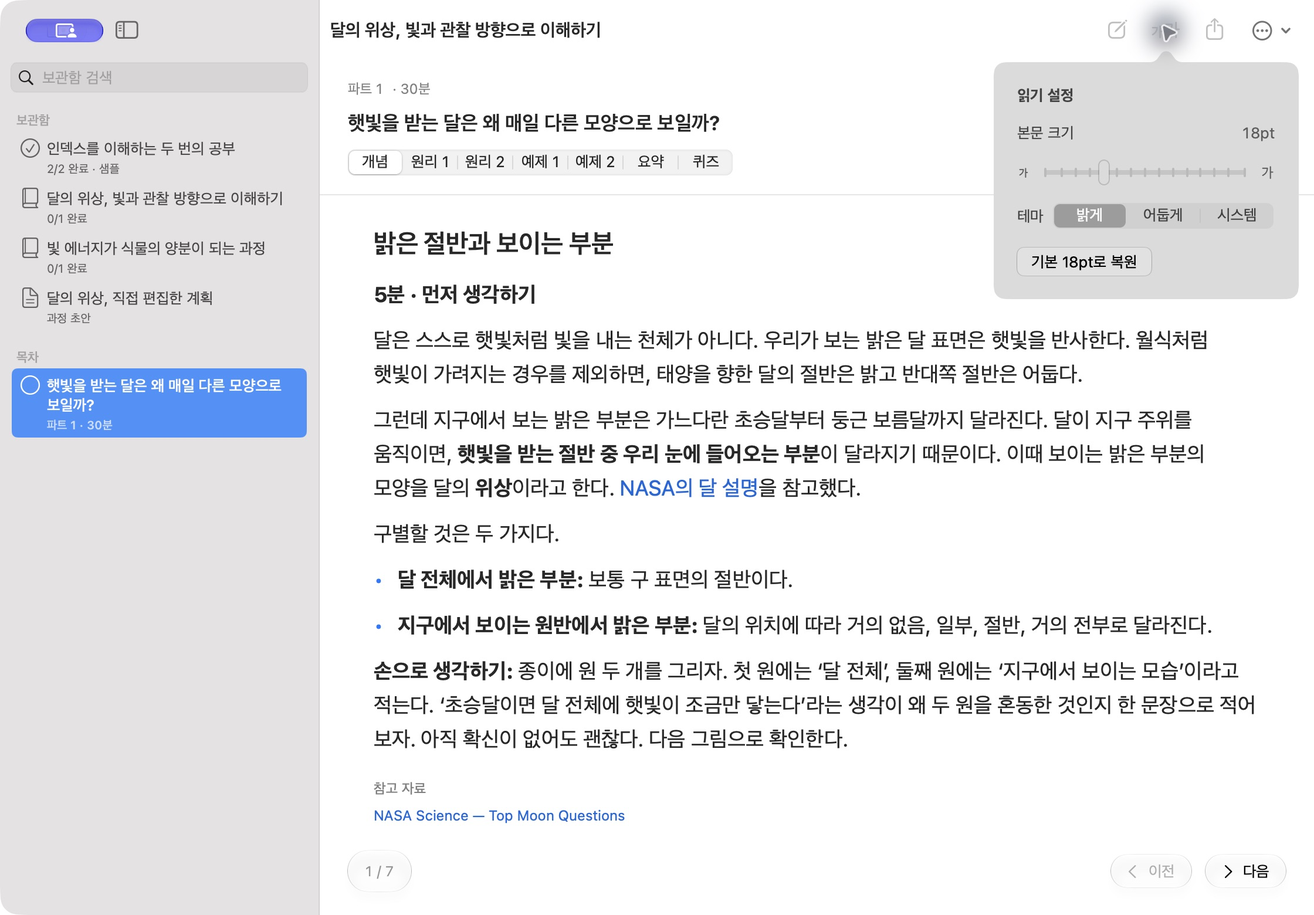
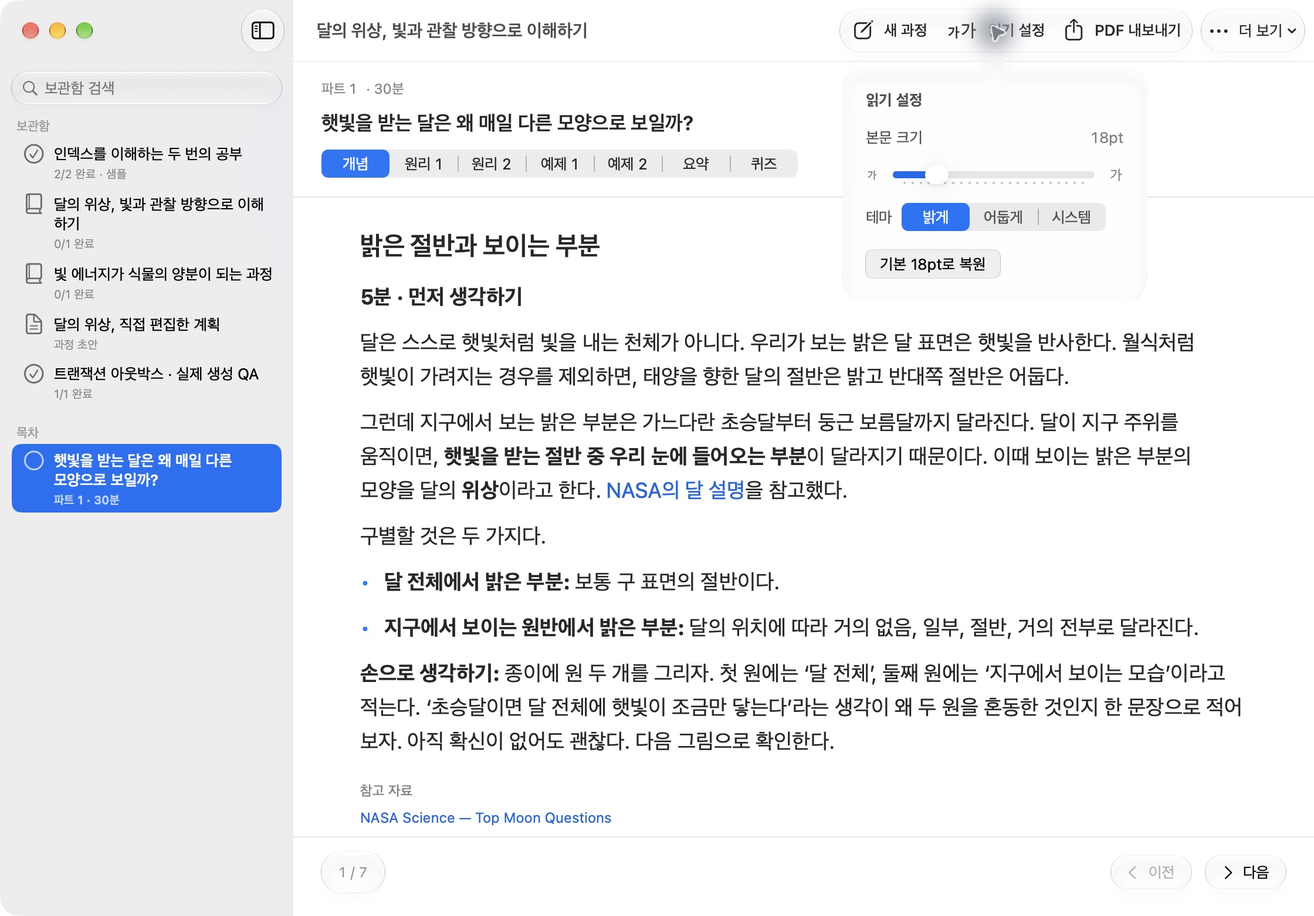
docs: 실제 생성 QA와 최신 네이티브 화면 갱신
선택한 Pages 방식의 메뉴와 최신 SDK 링크 원인·검증을 설계에 기록한다. 실제 아웃박스 계획·교재 생성, 퀴즈·메모·스크롤 재개·그림 복구와 10페이지 PDF 검토를 구분해 남긴다. 생성 도식의 배치 설명을 검토 후 수정한 사본임을 명시하고 원본 그대로의 결과로 주장하지 않는다.

38개 자동 테스트, 스크롤 저장 횟수 검사, 실제 Release 화면과 검증하지 않은 프레임 성능·OS 범위를 기록한다. README의 모든 화면을 최신 SDK 실행 캡처로 갱신한다.

diff --git a/docs/qa.md b/docs/qa.md
@@ -7,7 +7,7 @@
 | 항목 | 확인한 값 |
 |---|---|
 | OS / CPU | macOS 27.0.1 (26A434), Apple Silicon arm64 |
-| 도구 | Command Line Tools, Swift 6.4 |
+| 도구 | Command Line Tools, Swift 6.4, 최종 링크 SDK 27.0 |
 | 배포 최소 타깃 | macOS 14 |
 | 인증 / CLI | 기존 ChatGPT 구독 로그인, Codex CLI 0.160.1 |
 | 앱 | Release, 0.1.0, ad-hoc 서명 |
@@ -17,14 +17,14 @@
 
 ## 자동 검증
 
-실제 새 저장소에서 `swift run RunTests`를 실행해 **4개 suite, 37개 테스트가 모두 통과**했다. 앱 Release 빌드도 성공했다. CLT가 존재하지 않는 Developer 프레임워크 검색 경로에 대해 출력한 링크 경고는 빌드·실행을 막지 않았다.
+최종 변경 후 `swift run RunTests`를 실행해 **4개 suite, 38개 테스트가 모두 통과**했다. 앱 Release 빌드도 성공했다. CLT가 존재하지 않는 Developer 프레임워크 검색 경로에 대해 출력한 링크 경고는 빌드·실행을 막지 않았다. 아래 초기 검증과 첫 디자인 개선의37개·28pt 기록은 당시 버전의 결과이며, 최신 변경은 별도 절에 기록한다.
 
 | 범위 | 테스트 수 | 주요 검증 |
 |---|---:|---|
 | ModelTests | 18 | 버전 1 JSON, 30~45분 계획·연속 파트, 필수 내용·시각자료·출처, 중복/미참조 ID, 언어 학습 대상 문장, ASCII 제한, 순서와 무관한 명시적 완료, Markdown 코드·표·단계 |
 | RepositoryTests | 5 | 메모·정답 공개·진도 재개, 손상/미지원 버전 보존, 경로 탈출·심볼릭 링크·과도한 파일 크기 거부 |
 | ProcessTests | 9 | API 키 제거, 이벤트/종료 코드, 실패 이벤트, 큰 stdin, 조기 stdin 종료, 시간 제한·취소·앱 종료 시 자식 그룹 종료, 실행 경로 오류 |
-| RenderingTests | 5 | SVG 실행/외부 참조 차단, 저장 ASCII 대체와 AI 미호출, 후보 전체 실패, 한글 PDF·정답 페이지 분리, PDF 실패 시 이전 파일 보존 |
+| RenderingTests | 6 | SVG 실행/외부 참조 차단, 로컬 sequence symbol 허용과 중첩 실행 차단, 저장 ASCII 대체와 AI 미호출, 후보 전체 실패, 한글 PDF·정답 페이지 분리, PDF 실패 시 이전 파일 보존 |
 
 프로세스 종료 테스트는 실제 로컬 fixture 자식 프로세스를 사용한다. 원격 AI 응답을 흉내 내는 fixture를 실제 서비스 성공으로 간주하지 않았다.
 
@@ -92,16 +92,48 @@
 
 이 개선에서도37개 자동 테스트가 모두 통과했고 최종 Release 빌드가 성공했다. macOS 14~25의 fallback은 availability 분기와 최소 타깃 빌드로 확인했으며 해당 OS 실기기 실행은 수행하지 않았다. 현재 Apple 문서와 코드의 대응은 [디자인 기준](design.md)에 기록했다.
 
+## 최신 디자인·실제 생성·스크롤 검증
+
+2026-10-08. 별도 QA 보관함에서 최신 Release 앱을 실행했다. 사용자가 추가한 원래 과정과 저장 폴더는 덮어쓰지 않았다. 최신 변경 후 38개 테스트가 4개 suite에서 통과했고 Release 앱을 다시 패키징했다.
+
+| 영역 | 실제 확인과 결과 |
+|---|---|
+| SDK와 Liquid Glass | 이전 앱의 `LC_BUILD_VERSION`은 SDK 14.0이었다. 실제 SDK 링크 후 minOS 14.0 / SDK 27.0을 확인했다. 기본 사이드바 버튼·검색창·이름 있는 그룹 툴바가 새 디자인으로 표시된다. 툴바 배경 숨김 우회 없이 세로 경계가 이어진다. |
+| 명령과 일관성 | Pages 방식으로 새 과정·읽기 설정·PDF 내보내기·더 보기 이름 표시. File의 새 과정·가져오기, View의 읽기 설정·크기, 학습의 재생성·그림 재시도 확인. 밝은/어두운 화면, popover, grouped 설정·계획 Form, 퀴즈, 새 과정·완료 sheet를 대조했다. |
+| 실제 새 생성 | 앱의 새 과정에서 아웃박스 패턴 입력 → 실제 계획 생성 → 제목 수정·저장 → 시작 → 실제 1파트 35분 교재 생성. 개념·원리 2개·예제 2개·요약·퀴즈 표시. 새 작업 폴더는 계획·교재의 2개이며 그림 준비·PDF에는 추가 AI 호출이 없다. |
+| 시퀀스 그림 | 실제 v2 Mermaid가 안전한 SVG symbol 요소 때문에 대체 ASCII로 표시되던 원인을 수정했다. 재시도 후 v1/v2 모두 PNG, 대체 사유 없음. 중첩 script·외부 use·이벤트 속성은 계속 차단하는 회귀 검증을 추가했다. |
+| 코드·표·ASCII | 실제 생성 의사코드의 들여쓰기·줄과 비교 표의 열·셀 줄바꿈 확인. 861pt 창·36pt 본문에서 실제 생성 ASCII 대체 도식의 열 유지·가로 스크롤 확인. 하단 탐색은 별도 행이며 큰 글씨와 겹치지 않는다. |
+| 원본 확대 | 그림 크게 보기 → macOS 미리보기에 해당 QA 원본 PNG가 열림. 기본 이미지 앱의 확대/실제 크기 컨트롤에 접근 가능. |
+| 퀴즈·재개·완료 | 실제 퀴즈에 QA 답안 메모 입력·첫 정답 공개. 스크롤 직후 종료·재실행해 같은 내용·메모·공개 상태·스크롤 비율 약 0.23 복원. 현재 파트 완료 후 1/1 과정 완료, 복습 유지. 긴 심화 주제 설명의 여러 줄 표시 확인. |
+
+### 실제 생성 내용의 검토와 수정
+
+같은 DB 트랜잭션의 주문·이벤트 저장, 별도 릴레이 발행, 발행 후 기록 전 장애의 중복 가능성, 소비자 처리 기록과 업무 변경의 원자성을 [Microservices.io](https://microservices.io/patterns/data/transactional-outbox.html) 및 [AWS 공식 안내](https://docs.aws.amazon.com/prescriptive-guidance/latest/cloud-design-patterns/transactional-outbox.html)와 대조했다. 전체 사실 검증이나 35분 학습 시간 실험은 수행하지 않았다.
+
+실제 생성 v1은 서로 연결되지 않은 Mermaid 묶음이 위·아래로 배치됐는데 본문·캡션은 왼쪽·오른쪽으로 설명했다. 원본 생성 기록을 QA 폴더에 보존하고 QA 사본의 설명을 ‘DB 먼저’·‘브로커 먼저’라는 사례 이름으로 수정했다. 시각자료 사본에는 보이지 않는 Mermaid 배치 연결을 추가해 두 묶음을 나란히 렌더링했다. 이는 자동 생성 원본 그대로의 결과가 아닌 **생성 후 검토·수정한 QA 사본**이다. 앱 생성 지침도 사례 이름 참조와 큰 비교 그림 분할을 요청하도록 보강했다. 모든 새 모델 출력에서 항상 지켜진다는 검증은 하지 않았다.
+
+그림 복구 후 PDF 10페이지를 내보내 모두 검토했다. 내용 수정 후 최종 10페이지도 다시 확인했다. 그림·캡션·표·의사코드·한글·출처, 문제 8페이지와 정답 9페이지의 분리를 확인했다. 교재·생성 로그·메모는 Git에 넣지 않는다.
+
+### 스크롤 저장 검증
+
+실제 `StudyStore`를 사용하는 별도 검증 실행 파일에서 1000개 offset을 연속 입력했다. 이전 방식은 1000번 보관함을 발행·저장했고, 개선 방식은 입력 중 0번·350ms idle 이후 1번이었다. 과정·파트 이동, idle 저장, 즉시 flush, NaN/Inf 거부와 저장 파일을 검사했다. 실제 앱의 세 번 스크롤 제스처에서도 움직임 후 저장 3회를 확인했다. 종료 직전 위치 저장은 위 재개 검증으로 확인했다.
+
+이 결과는 이벤트마다 JSON 저장·전체 본문 재구성을 유발하는 경로를 줄였다는 증거다. FPS, 실제 트랙패드 장시간 연속 스크롤, 대규모 보관함의 프레임 성능을 측정한 것은 아니다.
+
 ## 스크린샷 출처
+
+현재 파일은 모두 SDK 27.0으로 링크한 Release 앱에서 다시 캡처했다. 창과 본문의 세로 경계, 이름 있는 툴바와 별도 하단 행이 실제 화면에 보인다.
 
 | 파일 | 실제 화면 |
 |---|---|
 | [lesson.png](assets/lesson.png) | 실제 달의 위상 교재, Release, 밝은 테마 18pt |
 | [plan.png](assets/plan.png) | 실제 달의 위상 계획의 QA 초안 사본을 앱에서 제목 편집 |
 | [diagram.png](assets/diagram.png) | 실제 달 교재의 SVG를 PNG로 표시, Release |
-| [quiz.png](assets/quiz.png) | 고정 인덱스 샘플, 메모·정답 공개 |
+| [quiz.png](assets/quiz.png) | 이번에 실제 생성한 아웃박스 교재, QA 메모·정답 공개 |
 | [options.png](assets/options.png) | 실제 달 교재의 네이티브 읽기 설정 popover,18pt 밝은 테마 |
 | [dark.png](assets/dark.png) | 실제 달의 위상 교재, 어두운 테마 21pt |
+| [compact.png](assets/compact.png) | 861pt 좁은 창, 이름 있는 시스템 툴바 |
+| [ascii-large.png](assets/ascii-large.png) | 실제 생성 대체 ASCII, 36pt 본문·861pt 창·가로 스크롤 |
 
 합성한 UI나 텍스트를 덧씌운 화면을 사용하지 않았다. 생성 교재·작업 로그·메모·인증 파일은 Git에 넣지 않으며 공개 스크린샷은 이 QA용 학습 주제와 샘플만 포함한다.
 
@@ -113,11 +145,12 @@ swift run PackageApp --release
 swift run StudyQA --data-dir ./work/local-qa --render-demo --stress-pdf --reopen
 ```
 
-다음 첫 명령만 실제 구독을 사용한다. 생성 후 두 번째 명령은 저장 자료만 읽는다.
+다음 첫 명령만 실제 구독을 사용한다. 생성 후 나머지 명령은 저장 자료만 읽는다.
 
 ```sh
 swift run StudyQA --data-dir ./work/live-qa --live --live-image
 swift run StudyQA --data-dir ./work/live-qa --reopen --export-saved
+swift run StudyQA --data-dir ./work/live-qa --verify-saved-visuals
 ```
 
 실제 모델 출력과 페이지 수는 새 실행마다 달라질 수 있다. 긴 시간 연속 사용·대규모 보관함·VoiceOver 전체 흐름·다른 macOS/Intel 하드웨어·CLI의 다른 버전은 검증하지 않았다. 기존 SQLite 보관함 전체 자동 이전은 구현 범위에 포함하지 않는다.

diff --git a/docs/design-review.md b/docs/design-review.md
@@ -1,0 +1,46 @@
+# 추가 SwiftUI 디자인 검토
+
+2026-10-08. 사용자가 제공한 자료를 읽고 현재 macOS 앱의 코드와 실제 실행 화면을 대조했다. Apple HIG와 제품의 읽기 요구를 우선하며, 제3자 스킬의 취향이나 iOS 규칙을 macOS 요구사항으로 간주하지 않는다.
+
+## 확인한 자료와 적용 범위
+
+- [SwiftUI Native Design 27](https://github.com/RichardZhengQuan/swiftui-native-design-skill/blob/3b44c1105b74cb391dcf196a0806e446b6bc2b87/.agents/skills/swiftui-native-design-27/SKILL.md): 네이티브 구조, 작업 흐름, 컴포넌트 선택, 실기기 검증 기준과 네 개 참조 문서를 읽었다. 현재 macOS 27 SDK 환경에 맞는 버전을 진단에 사용했다. 시스템 컴포넌트의 실제 동작과 확인 가능한 증거를 검수 기준으로 삼는다.
+- [SwiftUI Design Skill](https://github.com/Wholiver/swiftui-design-skill/blob/2c82638ebd3c801d9d2d12b5f2d6c20495939995/SKILL.md): 디자인 방향·계층·완성도·사용성·제품 맥락의 검토 틀과 anti-ai-slop/typography 참조를 읽었다. 반복 카드, 장식, 임의 여백을 줄이는 데 참고한다. 세리프 제목·따뜻한 브랜드색·44pt 터치 영역은 일괄 적용하지 않는다. 시스템 색·글꼴·macOS 컨트롤 크기와 사용자가 요청한 큰 본문을 유지한다.
+- [OpenClaw 네이티브 교체 제안](https://github.com/openclaw/openclaw/issues/99195): 커스텀 UI 층을 줄이는 사례로 참고했다. 이슈에 제안과 프로토타입 검증이 있다는 사실을 메인 코드 반영의 증거로 사용하지 않는다.
+- [한 화면부터 리디자인한 경험](https://www.reddit.com/r/ClaudeAI/comments/1mchugi/how_i_used_ai_to_completely_overhaul_my_apps_uiux/)과 [수치를 전달한 경험](https://www.reddit.com/r/ClaudeAI/comments/1ouc6bu/tip_for_ui_design_with_claude/): 구체적 기준과 실제 결과를 대조하는 작업 방식에 참고했다.
+- [awesome-ios-design-md](https://github.com/Meliwat/awesome-ios-design-md): 명세의 분류 방식은 참고하되 개별 모바일 앱의 브랜드와 레이아웃을 이 데스크톱 학습 도구에 복제하지 않는다.
+
+전역 스킬 설치나 Xcode 설정 변경은 하지 않았다. 자료는 설계 검토에 사용했으며 스킬 원문·UI kit 자산을 저장소에 복사하지 않았다.
+
+## 비교한 방향
+
+| 방향 | 이 앱에서의 의미 | 판단 |
+|---|---|---|
+| 네이티브 학습 도구 | 시스템 탐색·명령·입력, 큰 본문, 그림과 퀴즈 중심 | 기존 사용자 요청과 일치해 유지 |
+| 읽기에 집중한 문서 화면 | 목차를 숨기고 본문에 더 많은 공간 제공 | 기존 사이드바 숨김과 본문 폭 제한으로 지원 |
+| 학습 작업 공간 | 자료 옆 별도 메모·참고 inspector | 새로운 작업 흐름이므로 이번 개선에 추가하지 않음 |
+
+## 발견과 수정
+
+| 문제 | 코드의 원인 | 반영 |
+|---|---|---|
+| 충분한 글자 확대 | 기본 18pt, 상한 28pt | `ReaderTypography`로 기본·범위를 공유하고 상한 36pt로 확대. Apple HIG의 가능한 200% 확대 권고에 맞춤 |
+| 큰 글자와 하단 버튼 겹침 | ReaderView의 스크롤 위 footer overlay | footer를 viewport 아래 독립 행으로 이동. 실제 Glass 버튼 사용 유지 |
+| ASCII·코드 열 정렬 붕괴 | 일반 본문처럼 폭에 맞춰 자동 줄바꿈 | `MonospacedBlock`에서 원래 줄·공백 유지, 가로 스크롤 제공 |
+| 스크롤 중 반복 저장·레이아웃 | offset 이벤트마다 전체 library publish/save | 최신 위치를 메모리에 모으고 350ms idle 후 저장. 이동·비활성화·종료 때 즉시 반영 |
+| 최신·이전 디자인 혼합 | 실행 파일 링크 SDK가 14.0으로 기록됨 | 실제 SDK를 지정해 링크하고 검증. 기본 사이드바·검색·그룹 툴바에 새 디자인 적용. 툴바 배경 숨김 우회 제거 |
+| 심화 설명 잘림 | 시스템 버튼의 기본 한 줄 제한 | 명시적 여러 줄 표시·왼쪽 정렬 적용 |
+
+## 상단 명령 비교와 선택
+
+사용자는 **A · Pages처럼 기능 이름 표시**를 선택했다. [Pages의 툴바 사용자화](https://support.apple.com/guide/pages/customize-the-toolbar-tanafa2f718a/15.4/mac/1.0)는 아이콘·텍스트 표시를 지원한다. [Preview 안내](https://support.apple.com/en-nz/guide/preview/prvw11470/mac)의 읽기·크기 도구 중심 방식과 [Obsidian 명령 검색](https://help.obsidian.md/plugins/command-palette)의 키보드 검색 방식을 함께 비교했다. 현재 기능 수와 선택한 방향에 맞춰 자주 쓰는 명령 이름을 화면에 표시한다.
+
+`새 과정`, `읽기 설정`, `PDF 내보내기`를 기본 시스템 툴바에 배치하고 `더 보기`에는 가져오기·재생성·원본 그림 재시도를 둔다. [Apple Toolbars HIG](https://developer.apple.com/design/human-interface-guidelines/toolbars)에 따라 File·View·학습 메뉴도 제공한다. 861pt 창에서 명령 이름은 유지되고 긴 과정 제목만 시스템 방식으로 축약된다.
+
+SDK 수정 뒤 기본 시스템 컨트롤과 공통 `StudyActionStyle`을 기준으로 창·검색·툴바·내용 선택·설정·계획·새 과정·퀴즈·완료 화면을 검토했다. 내용 층에는 읽기용 시스템 배경을 유지하고 조작 층에 네이티브 Glass를 사용한다. 실행 증거는 QA 기록에 구분했다.
+
+## 화면별 검수 기준
+
+본문·그림·퀴즈를 읽고 현재 파트를 완료하는 것이 주 작업이다. 설정·PDF·재생성은 보조 명령이다. 각 화면에서 현재 선택과 다음 동작이 보이는지, 작은 창과 큰 글자에서 내용이 잘리거나 겹치지 않는지, 키보드·이름 있는 컨트롤로 같은 작업에 도달하는지 확인한다. 생성 중에는 활동과 취소, 실패 뒤에는 기존 자료와 재시도 경로가 남아야 한다.
+
+가독성은 본문·캡션·Glass 조작 영역을 각각 검토한다. 정렬은 창 경계·본문·표·도식·코드에서 확인한다. 생성 결과는 고정 샘플과 구분하고, 실제 교재와 그림에서 검사한다. 컴파일 성공이나 주관적 점수를 디자인 완료의 증거로 삼지 않는다. 실행 증거와 확인하지 않은 접근성·OS 조합은 [QA 기록](qa.md)에 남긴다.

diff --git a/README.md b/README.md
@@ -2,9 +2,9 @@
 
 궁금한 주제를 작은 학습 과정으로 만들고, 교재·그림·퀴즈를 읽으며 공부하는 **Swift 전용 macOS 네이티브 앱**입니다. 기존 [Study TUI](https://github.com/zzoe2346/study-tui)의 학습 흐름을 밝고 읽기 편한 데스크톱 화면으로 옮겼습니다.
 
-기본 본문 **18pt**, **14~28pt 크기 조절**, 밝은·어두운·시스템 테마를 제공합니다. 과학·역사·언어 등 직접 입력한 주제를 공부할 수 있습니다. 생성에는 기존 ChatGPT 구독으로 로그인한 Codex CLI를 사용합니다.
+기본 본문 **18pt**, **14~36pt 크기 조절**, 밝은·어두운·시스템 테마를 제공합니다. 과학·역사·언어 등 직접 입력한 주제를 공부할 수 있습니다. 생성에는 기존 ChatGPT 구독으로 로그인한 Codex CLI를 사용합니다.
 
-화면은 `NavigationSplitView`·네이티브 사이드바·툴바·Form·Picker·DisclosureGroup으로 구성했습니다. macOS 26 이상에서 페이지 이동과 주요 동작에 **실제 Liquid Glass API**를 사용하며, 이전 지원 OS에는 표준 버튼을 제공합니다. [Apple HIG 적용 기준](docs/design.md)을 문서로 남겼습니다.
+화면은 `NavigationSplitView`·네이티브 사이드바·툴바·Form·Picker·DisclosureGroup으로 구성했습니다. 최신 SDK로 링크해 시스템 탐색·검색·툴바 디자인을 사용하고, macOS 26 이상에서 페이지 이동과 주요 동작에 **실제 Liquid Glass API**를 적용합니다. 상단에는 **새 과정 · 읽기 설정 · PDF 내보내기 · 더 보기**의 이름을 함께 표시합니다. [Apple HIG 적용 기준](docs/design.md)을 문서로 남겼습니다.
 
 ![실제 앱의 교재 읽기 화면](docs/assets/lesson.png)
 
@@ -20,7 +20,7 @@
 
 ## 실제 실행 화면
 
-교재 읽기·어두운 테마·그림은 실제 Codex 구독으로 생성한 달의 위상 주제입니다. 과정 편집 화면은 그 실제 계획을 QA 보관함에 초안으로 복사하고 앱에서 제목을 수정했습니다. 퀴즈는 앱에 포함된 고정 인덱스 샘플입니다. 디자인 검증에는 저장된 교재를 사용해 추가 AI 호출을 하지 않았습니다. 합성한 UI 목업을 사용하지 않았습니다.
+교재 읽기·어두운 테마·그림은 실제 Codex 구독으로 생성한 달의 위상 주제입니다. 과정 편집 화면은 그 실제 계획을 QA 보관함에 초안으로 복사하고 앱에서 제목을 수정했습니다. 퀴즈는 이번에 앱에서 실제 생성한 트랜잭션 아웃박스 교재입니다. 계획·교재 생성에 두 번의 AI 작업을 사용했고 이후 그림 재시도·재개·PDF 검증은 AI 호출 없이 진행했습니다. 모든 캡처는 최신 SDK로 패키징한 실제 네이티브 앱 화면입니다.
 
 | 과정 초안 편집 | 퀴즈 메모와 선택 정답 공개 |
 |---|---|
@@ -43,7 +43,7 @@ swift run PackageApp --release
 open "dist/Study Swift.app"
 ```
 
-`PackageApp`은 실행 파일과 로컬 Mermaid·스키마 리소스를 포함하는 `.app`을 만들고 ad-hoc 서명합니다. Python, 별도 HTTP 서버, 외부 Swift 패키지가 필요하지 않습니다. 개발자 인증서 서명·공증·App Store 배포는 제공하지 않습니다.
+`PackageApp`은 실제 SDK 버전과 macOS 14 최소 버전을 구분해 링크하고 실행 파일의 SDK 기록을 검증합니다. 로컬 Mermaid·스키마 리소스를 포함하는 `.app`을 만들고 ad-hoc 서명합니다. Python, 별도 HTTP 서버, 외부 Swift 패키지가 필요하지 않습니다. 개발자 인증서 서명·공증·App Store 배포는 제공하지 않습니다.
 
 샘플을 전용 보관함에서 실행하려면 다음 명령을 사용합니다. 샘플 표시와 읽기는 AI를 호출하지 않습니다.
 
@@ -68,7 +68,7 @@ codex login status
 
 ## 그림, PDF, 가져오기
 
-Mermaid와 안전한 SVG는 앱 안의 로컬 WebKit에서 PNG로 렌더링합니다. 필요한 삽화는 Codex의 네이티브 이미지 기능으로 생성합니다. 원본을 사용할 수 없으면 교재에 미리 저장된 대체 후보를 순서대로 사용하고, 마지막 ASCII 도식을 표시합니다. 상단 `…` 메뉴에서 원본 그림을 다시 시도할 수 있습니다.
+Mermaid와 안전한 SVG는 앱 안의 로컬 WebKit에서 PNG로 렌더링합니다. 필요한 삽화는 Codex의 네이티브 이미지 기능으로 생성합니다. 원본을 사용할 수 없으면 교재에 미리 저장된 대체 후보를 순서대로 사용하고, 마지막 ASCII 도식을 표시합니다. **더 보기 → 원본 그림 재시도**에서 다시 준비할 수 있습니다. **그림 크게 보기**는 저장된 원본을 기본 이미지 앱에서 엽니다. ASCII와 코드의 줄·공백은 보존하며, 폭이 부족하면 가로로 스크롤합니다.
 
 PDF는 AppKit·CoreText·CoreGraphics로 생성합니다. 본문·예제·화면과 같은 선택 그림·퀴즈를 포함하고, **정답과 해설은 문제 이후의 새 페이지**에서 시작합니다.
 
@@ -101,6 +101,7 @@ swift run StudyQA --data-dir ./work/local-qa --render-demo --stress-pdf --reopen
 ```sh
 swift run StudyQA --data-dir ./work/live-qa --live --live-image
 swift run StudyQA --data-dir ./work/live-qa --reopen --export-saved
+swift run StudyQA --data-dir ./work/live-qa --verify-saved-visuals
 ```
 
 구조·진도·저장·CLI 종료/취소·시각자료 안전성·PDF를 검증합니다. 실제 호출, UI 조작, PDF 페이지 검토와 검증 한계는 [QA 기록](docs/qa.md)에 구분해서 기록했습니다. 생성 구조 검증은 교재의 모든 사실이나 실제 학습 시간을 보증하지 않습니다.
@@ -108,6 +109,7 @@ swift run StudyQA --data-dir ./work/live-qa --reopen --export-saved
 - [요구사항](docs/requirements.md)
 - [상세설계](docs/lld.md)
 - [macOS 디자인 기준](docs/design.md)
+- [추가 스킬·툴바 디자인 검토](docs/design-review.md)
 - [협업·Git 규칙](AGENTS.md)
 
 프로젝트 코드는 [MIT](LICENSE), 포함한 Mermaid 런타임은 [별도 MIT 고지](Sources/StudyCore/Resources/NOTICE.md)를 따릅니다.

diff --git a/docs/design.md b/docs/design.md
@@ -11,19 +11,25 @@
 - [Adopting Liquid Glass](https://developer.apple.com/documentation/technologyoverviews/adopting-liquid-glass), [Applying Liquid Glass to custom views](https://developer.apple.com/documentation/swiftui/applying-liquid-glass-to-custom-views): 표준 컨트롤과 실제 SwiftUI Glass API.
 - 사용자가 제공한 [macos-design-skill](https://github.com/ceorkm/macos-design-skill/blob/8f528a2364f996cd42f02a10b1b27198a74ca2a3/SKILL.md) 및 layout/visual/interaction 참조. 확인한 커밋은 `8f528a2364f996cd42f02a10b1b27198a74ca2a3`이다. 이 자료는 제3자 스킬이며 Apple 공식 문서가 아니다. 웹 구현 예시는 SwiftUI 컨트롤로 옮기고, 사용자의 18pt 가독성 요구를 우선했다.
 
+- [Accessibility](https://developer.apple.com/design/human-interface-guidelines/accessibility): 플랫폼별 컨트롤 크기, 의미적 색, 가능한 200% 글자 확대.
+- 추가 사용자 제공 스킬과 적용 범위·판단은 [추가 디자인 검토](design-review.md)에 기록했다.
+
 ## 화면에 적용한 결정
 
 | 영역 | 구현과 이유 |
 |---|---|
 | 탐색 | `NavigationSplitView` 두 열. `List(.sidebar)`에서 과정과 선택 과정의 목차를 탐색하며 시스템 선택·검색·숨김/표시를 사용한다. |
-| 툴바 | 새 과정, 읽기 설정, PDF, 추가 명령 메뉴. `Label`과 SF Symbols, 시스템 배치를 사용한다. 별도 툴바 배경을 숨겨 사이드바 경계가 창 상단부터 이어지게 한다. |
-| 읽기 | 기본 18pt, 14~28pt 조절. 시스템 색과 글꼴, 불투명 본문, 여백 포함 최대 820pt. 본문·그림·표에 Glass를 덮지 않는다. |
+| 툴바 | Pages 방식으로 `Label(.titleAndIcon)`의 새 과정·읽기 설정·PDF 내보내기·더 보기 이름을 표시한다. 기본 시스템 툴바가 Glass 그룹을 구성한다. SDK 수정 후 툴바 배경 숨김 우회 설정을 제거했고 사이드바 세로 경계를 실제 화면에서 확인했다. |
+| 읽기 | 기본 18pt, 14~36pt 조절. 시스템 색과 글꼴, 불투명 본문, 여백 포함 최대 820pt. 본문·그림·표에 Glass를 덮지 않는다. |
 | 내용 선택 | 표준 segmented `Picker`, 폭이 부족하면 `ViewThatFits`의 menu Picker. 같은 종류의 내용은 순서를 표시한다. |
-| 조작 층 | macOS 26 이상에서 하단 페이지 이동·완료에 `.glass` / `.glassProminent`, 페이지 위치에 `.glassEffect(.regular, in: .capsule)`. `GlassEffectContainer`로 묶으며 본문 마지막에 80pt를 확보한다. |
+| 조작 층 | macOS 26 이상에서 하단 페이지 이동·완료에 `.glass` / `.glassProminent`, 페이지 위치에 `.glassEffect(.regular, in: .capsule)`. `GlassEffectContainer`로 묶고 스크롤 viewport 아래 별도 조작 행에 배치해 본문을 가리지 않는다. |
 | 설정·편집 | 읽기 옵션 popover의 Slider/Picker, 과정 초안의 grouped Form/TextField/TextEditor/Stepper, 퀴즈의 TextEditor와 DisclosureGroup. |
+| 완료·그림 | 완료 화면도 공통 시스템 버튼 스타일을 사용하고 긴 설명은 왼쪽 정렬·여러 줄로 표시한다. 원본 그림은 이름 있는 버튼으로 기본 이미지 앱에서 확대한다. |
 | 키보드 | ⌘N 새 과정, ⌘P PDF, ⌘[ / ⌘] 내용 이동, ⌘+ / ⌘− / ⌘0 크기. OS 예약 단축키를 덮어쓰지 않는다. |
 | 저장 | 설정·읽던 위치·메모·선택 정답 공개는 기존 저장 계약을 유지한다. 새 디자인을 위해 교재를 다시 생성하지 않는다. |
 
 Glass API는 macOS 26 SDK 이상으로 빌드하며 `#available(macOS 26.0, *)`로 보호한다. macOS 14~25에서는 표준 bordered 버튼과 bar 재질을 사용한다. 이전 OS 실기기 실행과 접근성의 모든 시스템 조합을 검증한 것은 아니다. 투명도·대비에 관한 시스템 동작은 네이티브 재질에 맡긴다.
+
+SDK 헤더가 최신이어도 실행 파일의 `LC_BUILD_VERSION`이 SDK 14로 기록되면 기본 컨트롤은 이전 디자인을 사용했다. `PackageApp`은 `xcrun`의 실제 SDK를 `-platform_version`에 지정하고 `otool`로 검증한다. 최종 실행 파일은 **minOS 14.0 / SDK 27.0**이다. [Apple의 AppKit 새 디자인 안내](https://developer.apple.com/videos/play/wwdc2025/310/)에 따라 최신 SDK의 기본 툴바·사이드바·표준 컨트롤을 사용한다. 모든 내용에 Glass를 덮는 방식은 사용하지 않는다.
 
 색·모서리·흐림을 직접 모방하는 HTML/CSS 화면을 도입하지 않았다. 창과 컨트롤은 SwiftUI/AppKit이며 WebKit은 기존 로컬 그림 렌더링에만 사용한다. 앞으로 디자인을 바꿀 때도 해당 영역의 현재 Apple 지침을 먼저 확인하고 실제 앱에서 검증한다.

diff --git a/docs/requirements.md b/docs/requirements.md
@@ -13,7 +13,8 @@
 - 자료·현재 파트·내용·읽던 위치·답 메모·정답 공개를 로컬 저장하고 재개한다. 생성 실패는 기존 자료와 진행을 보존한다.
 - Mermaid/SVG·필요한 생성 삽화와 저장된 ASCII 대체를 지원한다. 후보는 교재와 함께 저장하며 새 AI 호출로 자동 대체를 만들지 않는다. 원본 재시도는 사용자 선택이다.
 - 사용자 지정 macOS 디자인 스킬과 현재 Apple HIG를 참고한다. 두 열의 네이티브 탐색·편집을 사용하고 macOS 26 이상에서는 탐색/조작에 실제 Liquid Glass API를 적용한다. 본문 가독성과 창·사이드바 경계 정렬을 유지하며 이전 지원 OS에는 표준 컨트롤을 제공한다.
-- 화면에서 글자 크기·밝은/어두운/시스템 테마를 선택하고 설정을 유지한다. 기본은 밝은 테마와 18pt 본문이다.
+- 화면에서 글자 크기·밝은/어두운/시스템 테마를 선택하고 설정을 유지한다. 기본은 밝은 테마와 18pt 본문이며 14~36pt로 조절한다. 도식·코드는 원래 줄과 열을 유지하며 좁은 폭에서 가로로 스크롤한다.
+- 상단 명령은 아이콘과 기능 이름을 함께 표시하는 Pages 방식을 사용한다. 파일·보기·학습 메뉴에서도 주요 명령에 도달하며, 원본 그림은 기본 이미지 앱에서 크게 열 수 있다.
 - 인쇄용 PDF는 파트별이며 본문·예제·같은 선택 시각자료·퀴즈를 포함한다. 정답과 해설은 문제 이후의 별도 페이지에서 시작한다.
 - 기존 ChatGPT/Codex 구독 인증으로 Codex CLI를 자식 프로세스로 호출한다. 구독 한도가 적용되며 API 키·별도 유료 API로 전환하지 않는다.
 - 글로벌 Codex/Git 설정과 사용자 인증을 변경하거나 복사하지 않는다. 별도 HTTP 서버는 없다. AI 생성은 원격 서비스에 의존한다.
